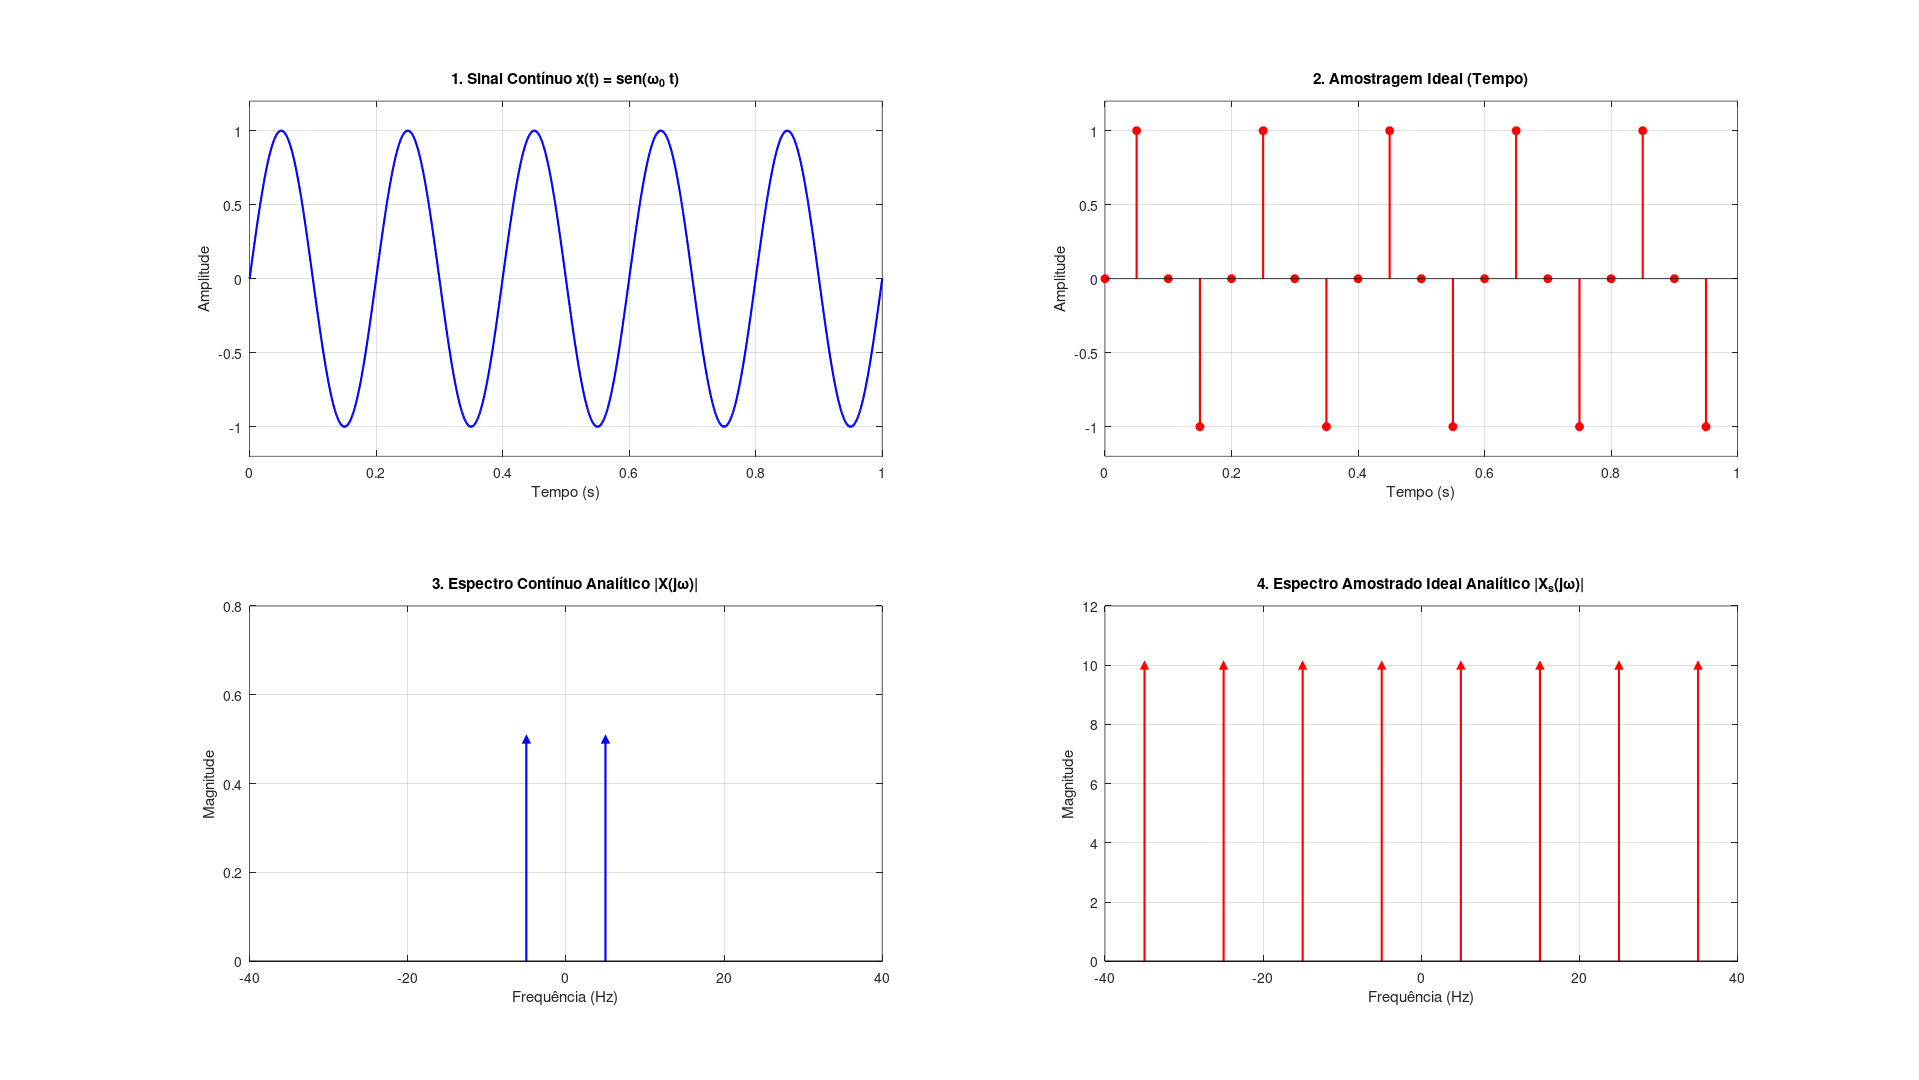
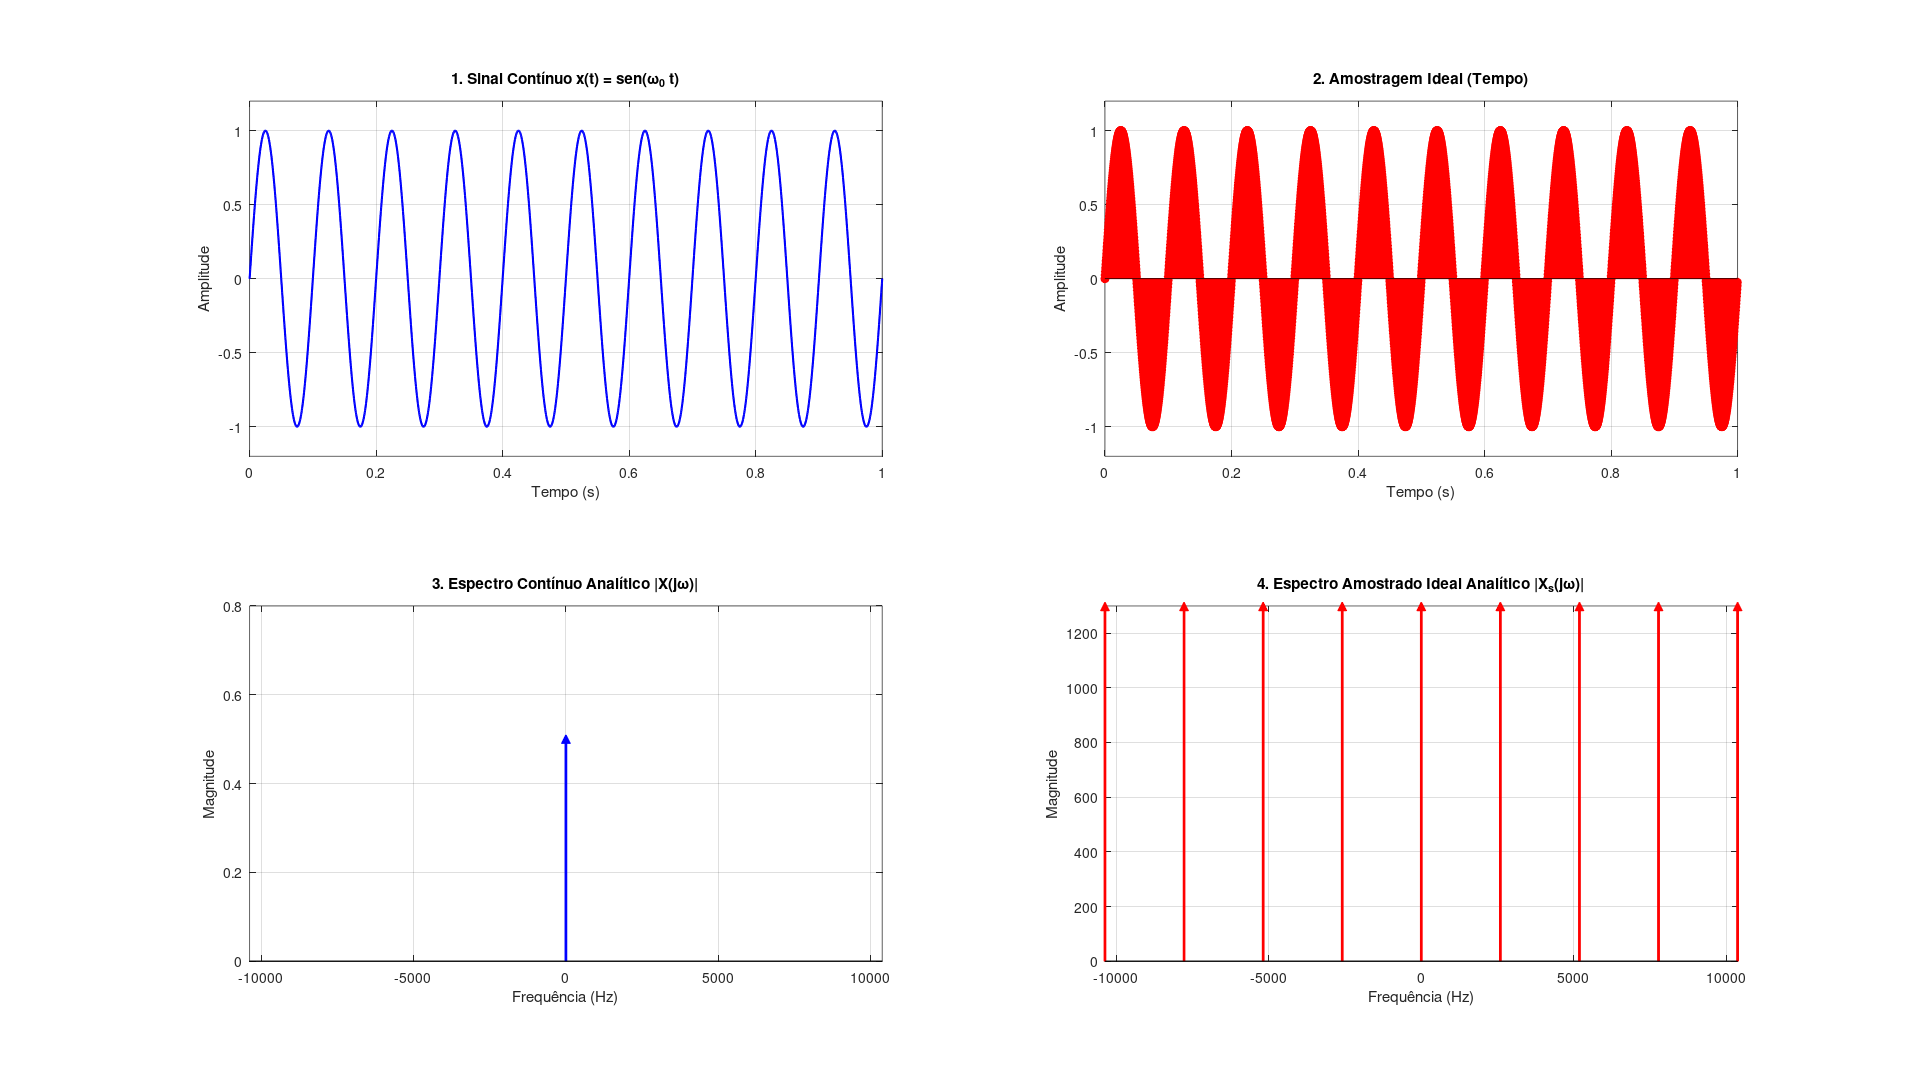
feat: eixo da frequência escala dinamicamente com a frequência de amostragem escolhida

diff --git a/main.m b/main.m
@@ -10,11 +10,13 @@ clear; clc; close all;
 addpath('src', 'utils');
 
 %% 1. Definição dos Parâmetros Globais
-frequency = 5;                         % Frequência do sinal original (Hz)
+frequency = 10;                         % Frequência do sinal original (Hz)
 omega = 2*pi*frequency;                % Frequência angular (rad/s)
-samplingFrequency = 20;                % Frequência de amostragem (Hz)
+samplingFrequency = 2594;                % Frequência de amostragem (Hz)
 samplingPeriod = 1/samplingFrequency;  % Período de amostragem (s)
 tau = 0.5 * samplingPeriod;            % Largura do pulso (50% do período)
+displayRange = 4 * samplingFrequency;
+kMax = ceil((displayRange + frequency) / samplingFrequency);
 
 startTime = 0;                         % Tempo inicial
 endTime = 1;                           % Tempo final
@@ -60,12 +62,12 @@ magnitudeContinuous = [0.5, 0.5];
 stem(frequencyContinuous, magnitudeContinuous, 'b', 'Marker', '^', 'LineWidth', 1.5, 'MarkerFaceColor', 'b');
 title('3. Espectro Contínuo Analítico |X(j\omega)|');
 xlabel('Frequência (Hz)'); ylabel('Magnitude');
-grid on; xlim([-40 40]); ylim([0 0.8]);
-line([-40 40], [0 0], 'Color', 'k');
+grid on; xlim([-displayRange displayRange]); ylim([0 0.8]);
+line([-displayRange displayRange], [0 0], 'Color', 'k');
 
 % PLOT 4: Frequência - Analítico (Amostrado Ideal)
 subplot(2, 2, 4);
-kIdealSamples = -8:8;
+kIdealSamples = -kMax:kMax;
 idealFrequencyLocations = []; 
 idealMagnitudes = [];
 % X_s(jω) = (1/Ts) * Σ_{k=-∞}^{∞} X(j(ω - k * ωs)))
@@ -80,8 +82,8 @@ end
 stem(idealFrequencyLocations, idealMagnitudes, 'r', 'Marker', '^', 'LineWidth', 1.5, 'MarkerFaceColor', 'r');
 title('4. Espectro Amostrado Ideal Analítico |X_s(j\omega)|');
 xlabel('Frequência (Hz)'); ylabel('Magnitude');
-grid on; xlim([-40 40]); ylim([0 (0.5*samplingFrequency)+2]);
-line([-40 40], [0 0], 'Color', 'k');
+grid on; xlim([-displayRange displayRange]); ylim([0 (0.5*samplingFrequency)+2]);
+line([-displayRange displayRange], [0 0], 'Color', 'k');
 
 %% FIGURA 2
 figure(2, 'Name', 'Amostragem Natural e Topo-Plano', 'Position', [150, 150, 1000, 800]);
@@ -102,7 +104,7 @@ grid on; ylim([-1.2 1.2]);
 
 % PLOT 3: Frequência - Analítico (Natural)
 subplot(2, 2, 3);
-kNaturalSamples = -8:8; 
+kNaturalSamples = -kMax:kMax; 
 naturalFrequencyLocations = []; 
 naturalMagnitudes = [];
 % Amostragem Natural (usando interpolação sinc):
@@ -119,7 +121,7 @@ end
 stem(naturalFrequencyLocations, naturalMagnitudes, 'b', 'Marker', '^', 'LineWidth', 1.5, 'MarkerFaceColor', 'b');
 title('3. Espectro Analítico: Natural |X_n(j\omega)|');
 xlabel('Frequência (Hz)'); ylabel('Magnitude');
-grid on; xlim([-60 60]);
+grid on; xlim([-displayRange displayRange]);
 
 % PLOT 4: Frequência - Analítico (Topo-Plano)
 subplot(2, 2, 4);
@@ -137,14 +139,14 @@ end
 stem(flatTopFrequencyLocations, flatTopMagnitudes, 'r', 'Marker', '^', 'LineWidth', 1.5, 'MarkerFaceColor', 'r');
 hold on;
 % Envelope do sinc
-sincEnvelopeFrequency = -60:0.01:60;
+sincEnvelopeFrequency = -displayRange:samplingPeriod:displayRange;
 flatTopEnvelope = abs((tau / samplingPeriod) * sinc(sincEnvelopeFrequency * tau));
 plot(sincEnvelopeFrequency, flatTopEnvelope, 'k--', 'LineWidth', 1);
 hold off;
 title('4. Espectro Analítico: Topo-Plano |X_{ft}(j\omega)|');
 xlabel('Frequência (Hz)'); ylabel('Magnitude');
 legend('Impulsos', 'Envelope sinc (Abertura)', 'Location', 'northeast');
-grid on; xlim([-60 60]);
+grid on; xlim([-displayRange displayRange]);
 
 % Save
 set(1, 'paperunits', 'inches');
